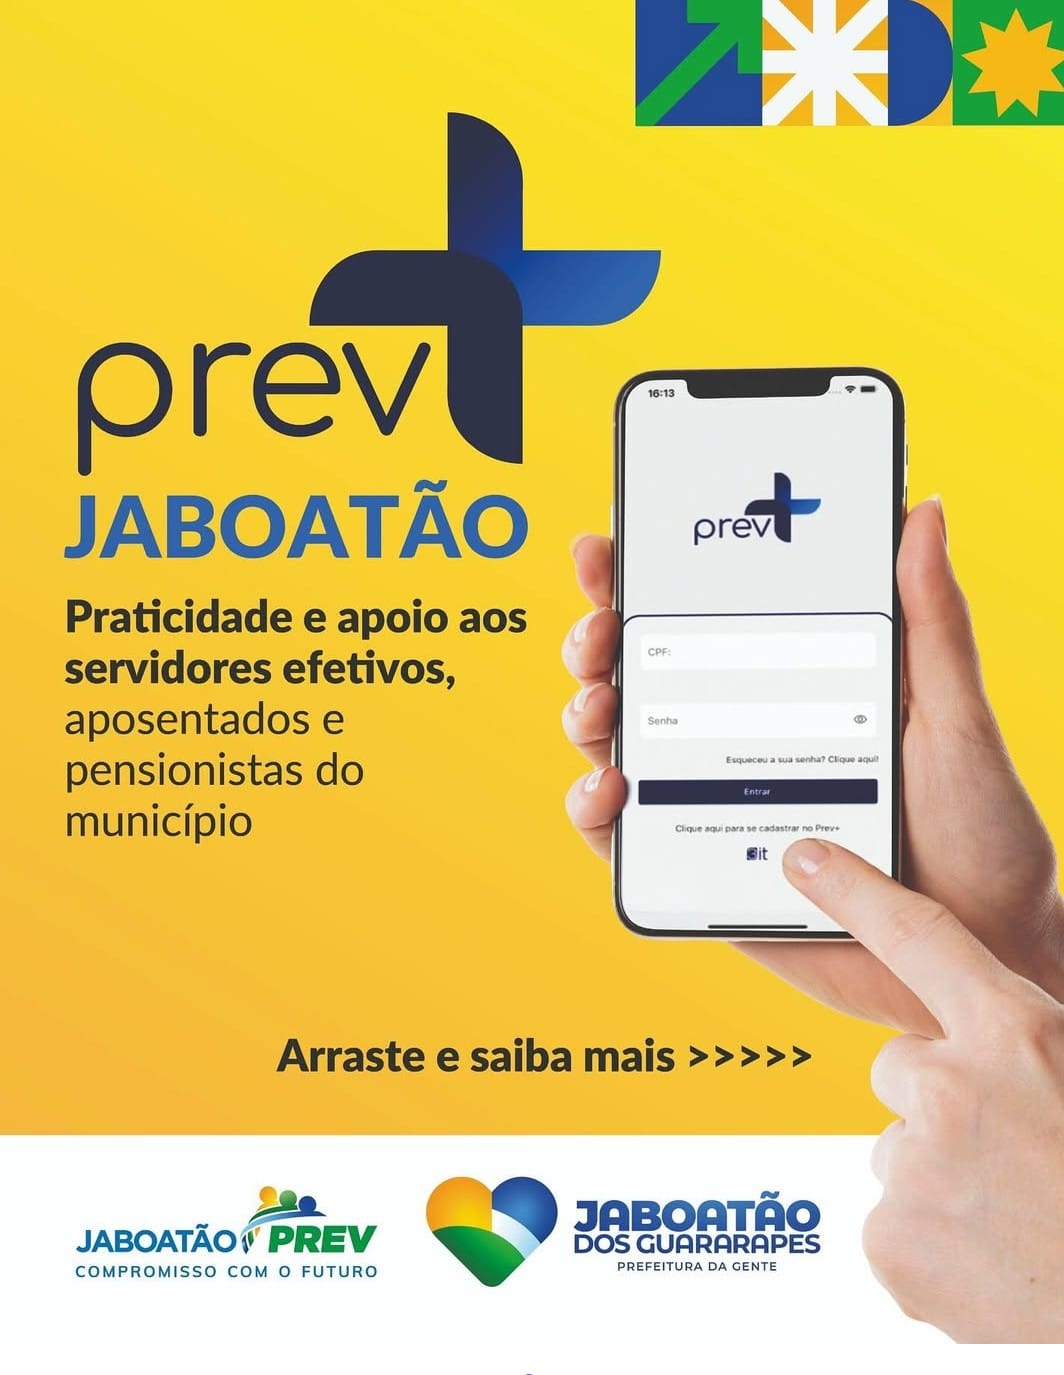
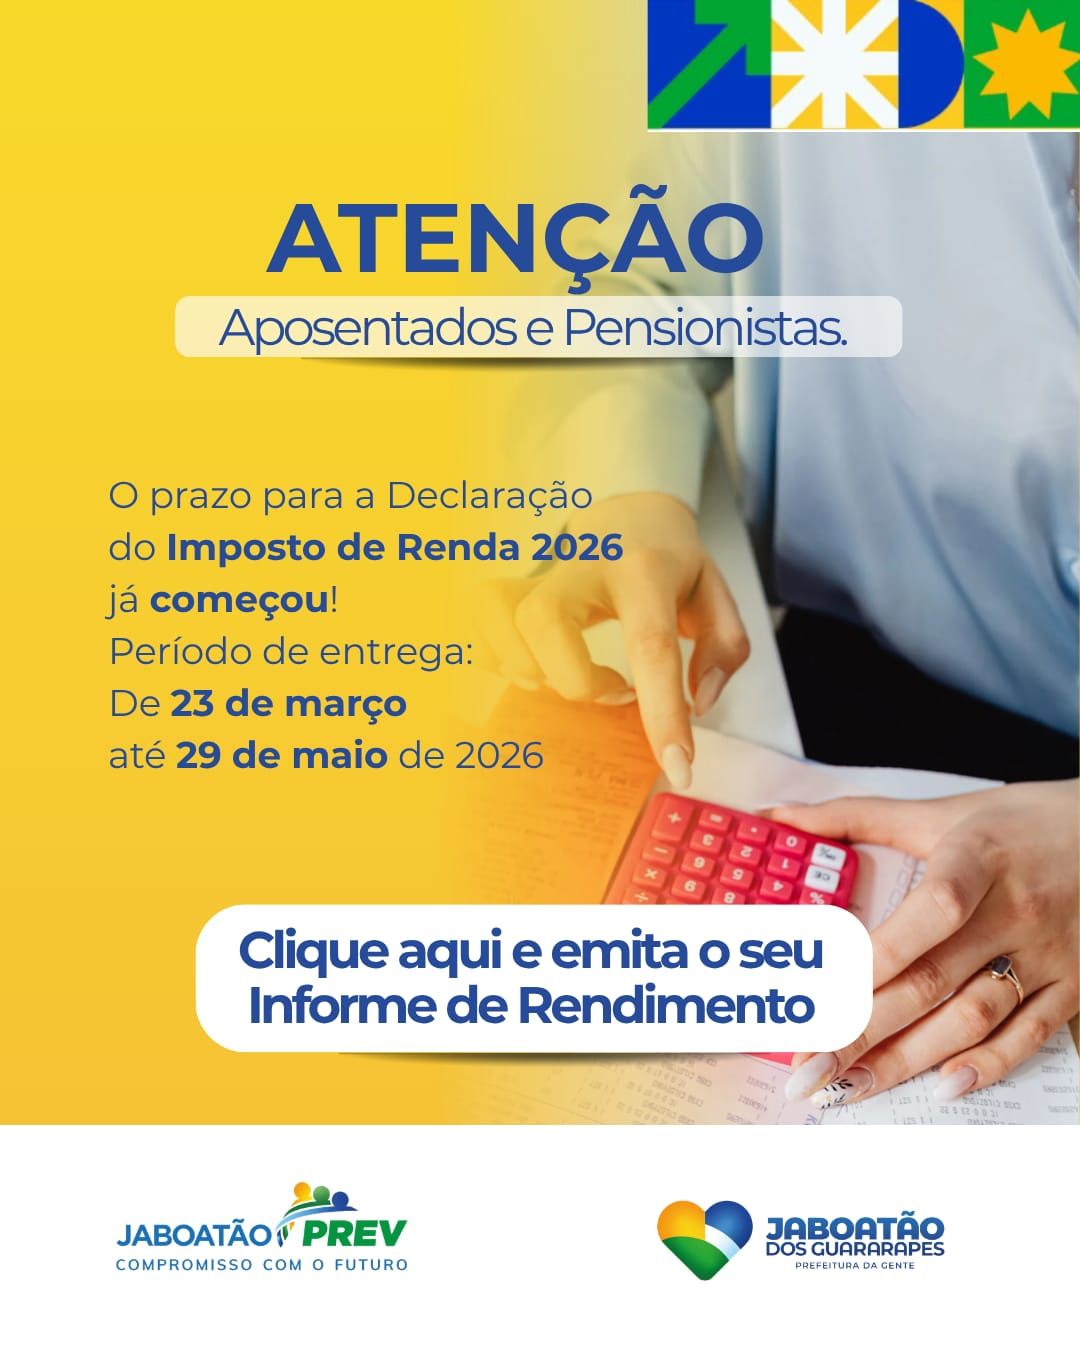
feat: poup up

diff --git a/src/app/components/Navbar/index.tsx b/src/app/components/Navbar/index.tsx
@@ -137,7 +137,7 @@ const navigation: NavItem[] = [
       },
       {
         name: "Concessões de Benefícios",
-        href: "/images/menu/concessao-Fevereiro-2026.jpeg",
+        href: "/images/menu/concessao.jpeg",
       },
 
       { name: "Contratos", href: "/contratos" },

diff --git a/src/app/components/Popup/index.tsx b/src/app/components/Popup/index.tsx
@@ -44,7 +44,7 @@ export default function Popup() {
         {/* Popup com borda decorativa */}
         <div className="relative p-1 bg-gradient-to-br from-yellow-400 to-yellow-600 rounded-xl shadow-2xl overflow-hidden border-4 border-white">
           <Link
-            href={`https://prevmais.app.br/#/login`}
+            href={`https://www.municipioonline.com.br/pe/jabprev/jaboataodosguararapes/servidor/login`}
             target="_blank"
             rel="noopener noreferrer"
             className="block"